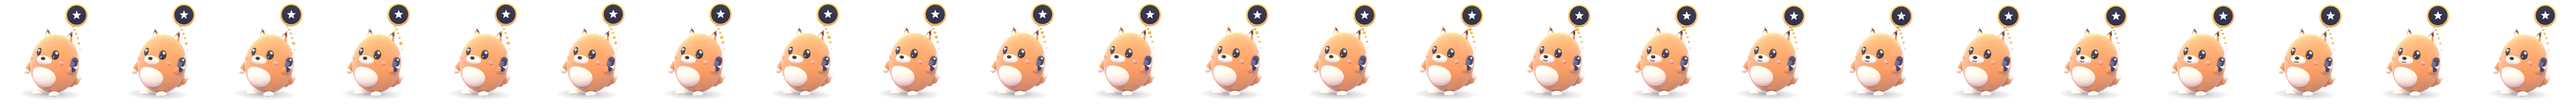
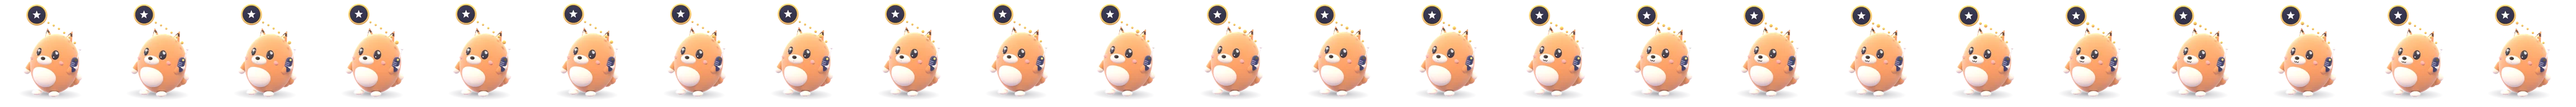
fix(dock): move the expert badge to the top left, clear of the Working tag

Changed region(s): [[0.0, 0.0312, 1.0, 0.2812], [0.4375, 0.2812, 0.5, 0.3125]]

diff --git a/apps/desktop/scripts/bean/bean.py b/apps/desktop/scripts/bean/bean.py
@@ -408,7 +408,7 @@ def build_bean():
     F.sweat = g(head, (.72, 1.55, .3), 'sweat')
     m(F.sweat, sph(.07), SWEAT, (0, 0, 0), (1, 1, .7))
     m(F.sweat, cone(.06, .12), SWEAT, (0, .02, 0), (1, 1, .7))
-    F.dims = dict(signY=2.32, headC=(0, 1.1, 0), headTop=2.0, headRx=.8, cloudX=.4, badgeX=.9, zX=.3, S=1.2)
+    F.dims = dict(signY=2.32, headC=(0, 1.1, 0), headTop=2.0, headRx=.8, cloudX=.4, badgeX=-.5, zX=.3, S=1.2)
     return F
 
 
@@ -529,7 +529,7 @@ def make_signs(F):
     F.gear, F.spark = gear, spark
 
     # Checking with an expert: a badge joined to the walkie by a dotted link
-    o = at((d['badgeX'], d['signY'] + .16, 0), 'sign badge')
+    o = at((d['badgeX'], d['signY'] + .22, 0), 'sign badge')   # top-left: clear of the app's tag at top right
     m(o, cyl(.25, .25, .07), NAVY_DEEP, r=(PI / 2, 0, 0))
     m(o, tor(.25, .036), GOLD)
     bevel(m(o, star(.12, .052, .02), OFF, (0, -.005, .04)), .012, 2)
@@ -771,7 +771,7 @@ def pose(F, name, ph=0.0, blink=0.0):
         inv = F.bob.matrix_world.inverted()
         p0 = inv @ F.walkie_tip.matrix_world.translation
         S = F.dims['S']
-        p2 = F.signs['badge'].location + Vector((-.2 * S, -.16 * S, 0))
+        p2 = F.signs['badge'].location + Vector((.2 * S, -.16 * S, 0))   # link meets the badge's lower right
         p1 = p0.lerp(p2, .5) + Vector((.05, .22, 0))
         n = len(F.link_dots)
         for i, o in enumerate(F.link_dots):
